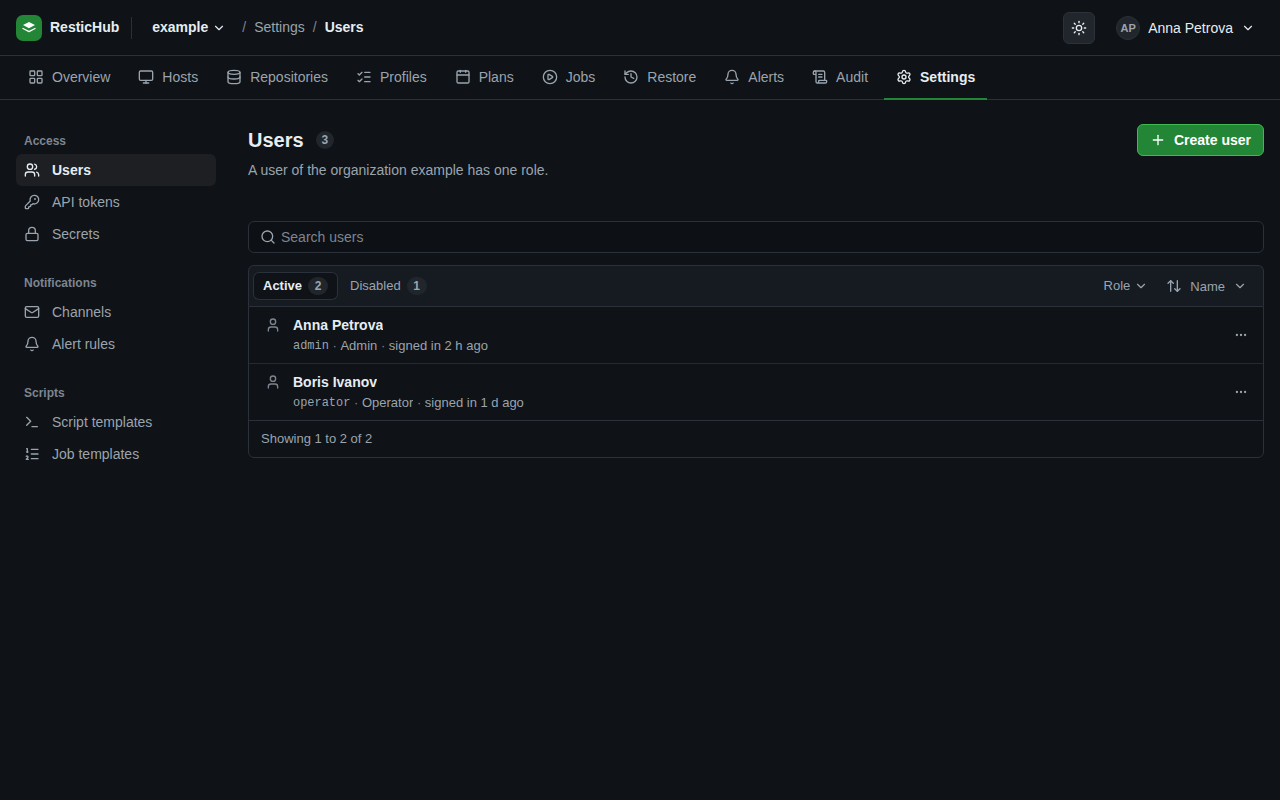
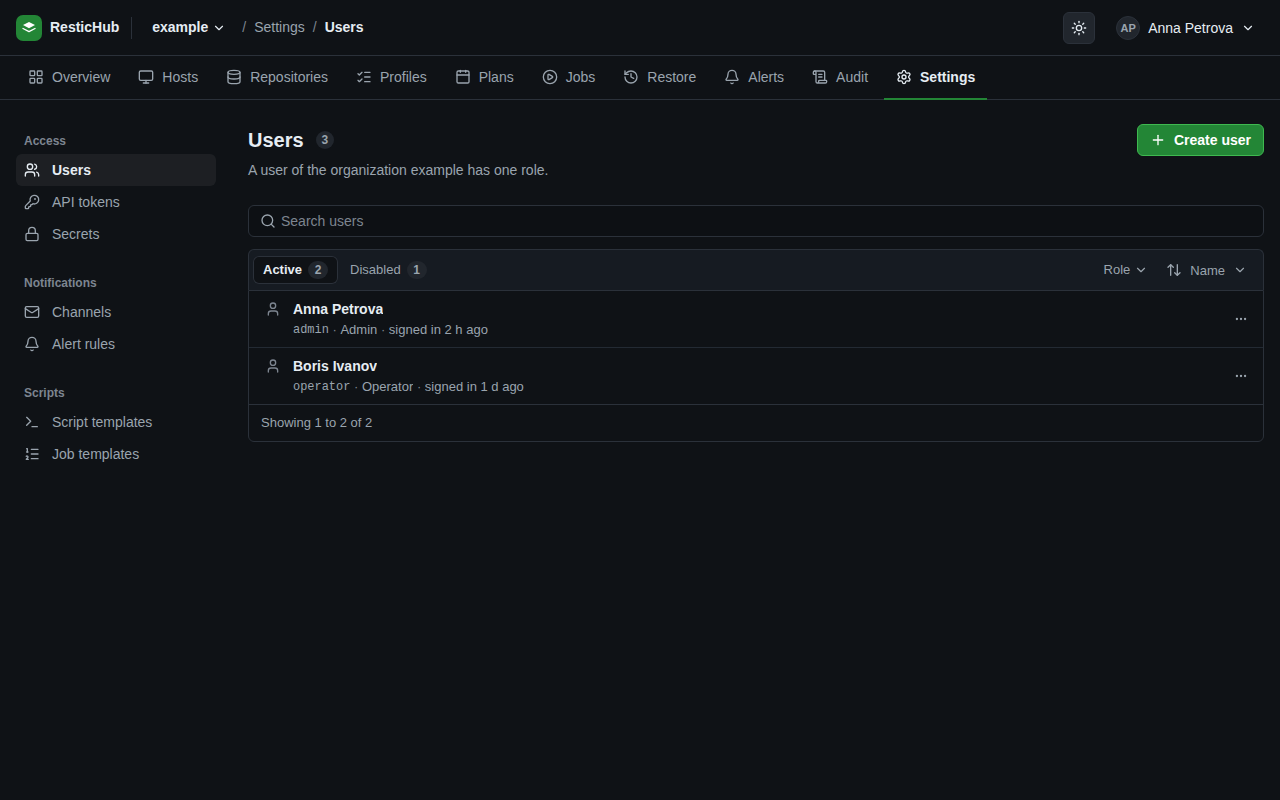
fix(ui): give a settings page the spacing of the other pages
The content column of the settings section had a gap of 16 px between
its blocks. The distance from the heading to the list was 69 px there
and 53 px on the list of hosts, and the distance from a banner to the
record was 32 px instead of 16 px.

The gap is gone. The link below the list of channels keeps its 16 px
with a margin.

Changed region(s): [[0.1875, 0.25, 0.4062, 0.5625], [0.9062, 0.3125, 0.9688, 0.375]]

diff --git a/ui/e2e/settings-layout.spec.ts b/ui/e2e/settings-layout.spec.ts
@@ -1,0 +1,46 @@
+import { expect, test, type Page } from '@playwright/test';
+
+// A settings page is a page: its heading and its body keep the spacing of the list of hosts.
+
+async function signIn(page: Page): Promise<void> {
+	await page.addInitScript(() => localStorage.setItem('restichub.mock.agents', 'sample'));
+	await page.goto('/sign-in');
+	await page.locator('#signin-username').fill('admin');
+	await page.locator('#signin-password').fill('secret');
+	await page.getByRole('button', { name: 'Sign in', exact: true }).click();
+	await expect(page.getByRole('navigation', { name: 'Primary navigation' })).toBeVisible();
+}
+
+// A reload drops the mock session, so the test follows the links of the shell.
+async function openSettingsList(page: Page, path: string): Promise<void> {
+	await page.locator('a[href="/settings"]').first().click();
+	await page.locator(`a[href="${path}"]`).first().click();
+	await expect(page.locator('li.item').first()).toBeVisible();
+}
+
+async function headingGap(page: Page): Promise<number> {
+	return page.evaluate(() => {
+		const heading = document.querySelector('h1')?.getBoundingClientRect();
+		const block = document.querySelector('.list-view')?.getBoundingClientRect();
+		return Math.round((block?.top ?? 0) - (heading?.bottom ?? 0));
+	});
+}
+
+test('a_settings_page_keeps_the_spacing_between_its_heading_and_its_body', async ({ page }) => {
+	await page.setViewportSize({ width: 1280, height: 900 });
+	await signIn(page);
+
+	await openSettingsList(page, '/settings/scripts/templates');
+	const settings = await headingGap(page);
+
+	await page
+		.getByRole('navigation', { name: 'Primary navigation' })
+		.getByRole('link', { name: 'Hosts', exact: true })
+		.click();
+	await expect(page.getByRole('heading', { level: 1, name: 'Hosts' })).toBeVisible();
+	const hosts = await headingGap(page);
+
+	expect(settings, 'the settings page spaces its heading differently from the hosts list').toBe(
+		hosts
+	);
+});

diff --git a/ui/src/lib/components/SettingsLayout.svelte b/ui/src/lib/components/SettingsLayout.svelte
@@ -118,7 +118,6 @@
 	.settings__content {
 		display: flex;
 		flex-direction: column;
-		gap: var(--rh-space-4);
 		min-width: 0;
 		/* The column is the size that a screen inside it works with. A record page stacks its side
 		   panel when this column is narrow, also in a wide window. */

diff --git a/ui/src/routes/(app)/settings/notifications/channels/+page.svelte b/ui/src/routes/(app)/settings/notifications/channels/+page.svelte
@@ -525,6 +525,7 @@
 
 	.manage-secrets {
 		align-self: flex-start;
+		margin-top: var(--rh-space-4);
 		font-size: var(--rh-font-size-sm);
 	}
 </style>
